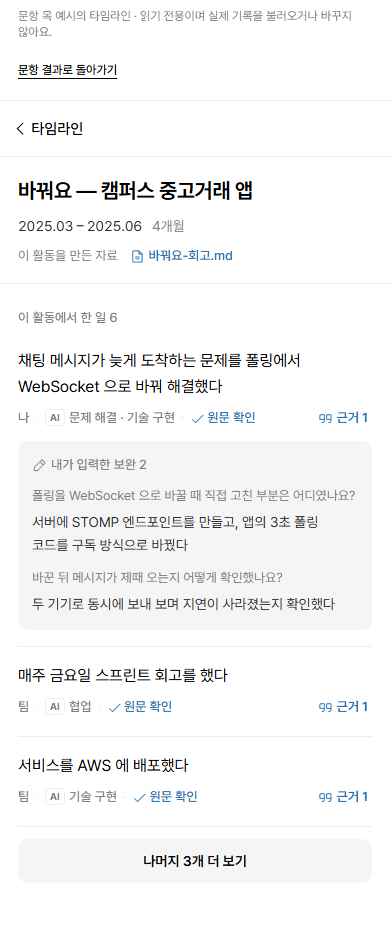
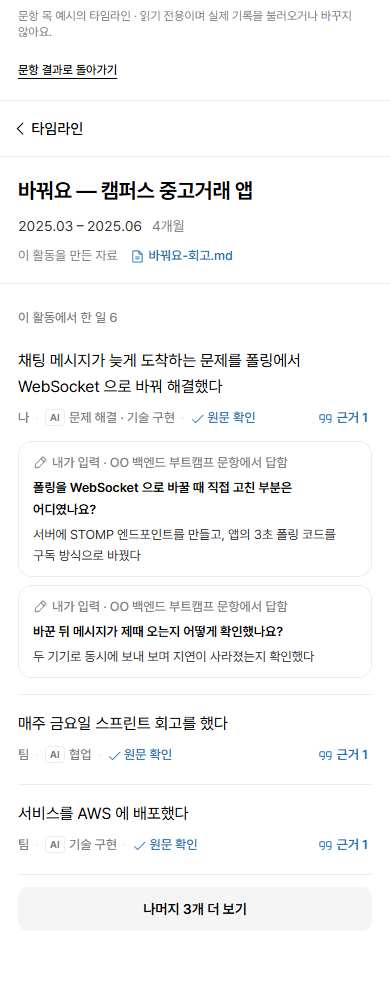
fix(clarification): 되묻기 · 보완을 시안 6 대로 — 바로 보이는 입력칸 · 건너뛰기 · 어디서 답했는지 (#31)
#49 에서 시안 6 의 되묻기를 놓쳤다(시안은 mock.js 로 그려지는데 html 만 찾아봄). 시안대로 맞춘다.

- 묻기 카드(apply.html msg--ask): 활동 칩 + 굵은 질문 + 한 줄 입력칸이 처음부터 보이고 「답하기」 · 「건너뛰기」.
  답하면 내 말풍선 + 「「바꿔요」 경험에 보완으로 쌓았어요. 다른 지원서에서도 이 답을 근거로 같이 써요.」
- 활동 세부(experience.html fill-in): 보완마다 테두리 상자에 「내가 입력 · OO 백엔드 부트캠프 문항에서 답함」 + 질문 + 답.
  출처는 보완의 questionId → 문항 목록의 지원처로 만든다(목 타임라인만 문항 목록을 알아서 Context 로 넣는다)
- 차곡이 패널 자체는 ETC#78 논의 중이라 묻기 카드는 추천 경험 아래에 둔다

Claude-Session: https://claude.ai/code/session_01Wxw7Q7m4nn6AwyPGdGGqE5

diff --git a/src/components/questions/clarifications.tsx b/src/components/questions/clarifications.tsx
@@ -1,76 +1,73 @@
 "use client";
 
-// 되묻기(S-22 · S-23) — 추천된 경험 아래에 그 경험에 대한 질문만. 답은 선택이고, 건너뛰면 아무것도 보내지 않는다
+// 되묻기(S-22 · S-23) — 시안 6 apply.html 차곡이 패널의 묻기 말풍선(msg--ask)을 추천 경험 아래로 옮겼다(패널은 ETC#78 논의 중).
+// 답은 선택이고, 건너뛰면 아무것도 보내지 않는다
 import { useRef, useState } from "react";
-import { UserEnteredLabel } from "@/components/experience/supplement-list";
 import { Button } from "@/components/ui/button";
 import { MAX_ANSWER_LENGTH, type Clarification, type QuestionExperience } from "@/lib/api/question-types";
 
 export type AnswerHandler = (clarificationId: number, answer: string) => Promise<void>;
 
-export function Clarifications({ experience, clarifications, onAnswer, label }: {
-  experience: QuestionExperience; clarifications: Clarification[]; onAnswer?: AnswerHandler; label: string;
+/** 「바꿔요 — 캠퍼스 중고거래 앱」 → 「바꿔요」 (시안의 활동 칩) */
+const shortName = (name: string) => name.split(" — ")[0];
+
+export function Clarifications({ activityName, experience, clarifications, onAnswer, label }: {
+  activityName: string; experience: QuestionExperience; clarifications: Clarification[]; onAnswer?: AnswerHandler; label: string;
 }) {
   if (!clarifications.length) return null;
-  return <section aria-label={label} className="mt-5 grid gap-3 rounded-md bg-surface-soft p-4">
-    <div>
-      <h5 className="m-0 text-sm font-semibold">이 경험에 대해 짧게 물어볼게요</h5>
-      <p className="mt-1 mb-0 text-[13px] text-muted">AI 가 자료에서 찾지 못한 부분이에요. 답하면 이 경험에 「내가 입력」 보완으로 쌓여 다음 문항에서도 쓰여요. 답하지 않고 넘어가도 괜찮아요.</p>
-    </div>
-    <ul className="m-0 grid list-none gap-2 p-0">{clarifications.map(c => <ClarificationItem key={c.id} clarification={c} experience={experience} onAnswer={onAnswer} />)}</ul>
+  return <section aria-label={label} className="mt-5 grid gap-2.5">
+    <p className="m-0 text-[13px] text-muted">자료에 없다고 경험이 없는 건 아니에요. 몇 가지만 물어볼게요.</p>
+    <ul className="m-0 grid list-none gap-2.5 p-0">{clarifications.map(c => <ClarificationItem key={c.id} activity={shortName(activityName)} clarification={c} experience={experience} onAnswer={onAnswer} />)}</ul>
   </section>;
 }
 
-function ClarificationItem({ clarification: c, experience, onAnswer }: { clarification: Clarification; experience: QuestionExperience; onAnswer?: AnswerHandler }) {
-  const [mode, setMode] = useState<"idle" | "open" | "skipped">("idle");
+function ClarificationItem({ activity, clarification: c, experience, onAnswer }: { activity: string; clarification: Clarification; experience: QuestionExperience; onAnswer?: AnswerHandler }) {
+  const [skipped, setSkipped] = useState(false);
   const [text, setText] = useState("");
   const [saving, setSaving] = useState(false);
   const [error, setError] = useState<string | null>(null);
   const pending = useRef(false);
-  const question = <p className="m-0 text-[15px] leading-relaxed font-medium text-ink">{c.question}</p>;
-  const box = "grid gap-2.5 rounded-sm bg-canvas p-3.5";
+  const ask = <div className="grid gap-1.5">
+    <span className="inline-flex justify-self-start rounded-full bg-mark-soft px-2.5 py-px text-xs font-semibold text-evidence">{activity}</span>
+    <p className="m-0 text-sm leading-relaxed font-semibold text-ink">{c.question}</p>
+  </div>;
+  const card = "grid gap-3 rounded-[4px_16px_16px_16px] border border-hairline bg-canvas p-3.5";
 
   if (c.supplementId !== null) {
     const supplement = experience.supplements.find(s => s.id === c.supplementId);
-    return <li className={box}>
-      {question}
-      <div className="grid gap-1 border-l-2 border-hairline pl-3">
-        <UserEnteredLabel>내가 입력 · 이 경험에 쌓였어요</UserEnteredLabel>
-        {supplement ? <p className="m-0 whitespace-pre-wrap text-sm leading-relaxed text-body">{supplement.answer}</p>
-          : <p className="m-0 text-sm text-muted">답한 보완을 지금 불러오지 못했어요.</p>}
-      </div>
+    return <li className="grid gap-2.5">
+      <div className={card}>{ask}</div>
+      {supplement ? <p className="m-0 max-w-[92%] justify-self-end rounded-[16px_4px_16px_16px] bg-primary px-3.5 py-3 text-sm leading-relaxed whitespace-pre-wrap text-on-primary">{supplement.answer}</p>
+        : <p className="m-0 justify-self-end text-sm text-muted">답한 보완을 지금 불러오지 못했어요.</p>}
+      <p className="m-0 max-w-[92%] rounded-[4px_16px_16px_16px] border border-hairline-soft bg-canvas px-3.5 py-3 text-sm leading-relaxed text-body">
+        「{activity}」 경험에 보완으로 쌓았어요. 다른 지원서에서도 이 답을 근거로 같이 써요.
+      </p>
     </li>;
   }
 
-  if (mode === "skipped") return <li className="flex flex-wrap items-center justify-between gap-2 px-1">
-    <span className="line-clamp-1 min-w-0 flex-1 text-[13px] text-muted">넘어간 질문 · {c.question}</span>
-    <Button variant="link" size="sm" className="min-h-11" onClick={() => setMode("idle")}>다시 보기</Button>
+  if (skipped) return <li className="flex flex-wrap items-center justify-between gap-2 px-1">
+    <span className="line-clamp-1 min-w-0 flex-1 text-[13px] text-muted">건너뛴 질문 · {c.question}</span>
+    <Button variant="link" size="sm" className="min-h-11" onClick={() => setSkipped(false)}>다시 보기</Button>
   </li>;
 
   const save = async () => {
     if (pending.current || !onAnswer) return;
-    if (!text.trim()) { setError("답을 적어 주세요. 답하지 않으려면 「넘어가기」를 눌러 주세요."); return; }
+    if (!text.trim()) { setError("답을 적어 주세요. 답하지 않으려면 「건너뛰기」를 눌러 주세요."); return; }
     pending.current = true; setSaving(true); setError(null);
     try { await onAnswer(c.id, text.trim()); }
     catch (e) { setError(e instanceof Error ? e.message : "보완을 저장하지 못했어요. 다시 시도해 주세요."); }
     finally { pending.current = false; setSaving(false); }
   };
 
-  return <li className={box}>
-    {question}
-    {mode === "open" ? <form className="grid gap-2" onSubmit={e => { e.preventDefault(); void save(); }}>
-      <textarea autoFocus rows={3} maxLength={MAX_ANSWER_LENGTH} value={text} disabled={saving} onChange={e => { setText(e.target.value); setError(null); }}
-        aria-label={`답: ${c.question}`} placeholder="기억나는 만큼 짧게 적어 주세요."
-        className="w-full resize-y rounded-sm border border-hairline bg-canvas p-3 text-base leading-relaxed" />
-      <span className="text-right text-xs text-muted tabular-nums">{text.length.toLocaleString("ko-KR")} / 2,000</span>
-      {error && <p role="alert" className="m-0 text-sm text-error">{error}</p>}
-      <div className="flex flex-wrap gap-2">
-        <Button type="submit" size="sm" disabled={saving}>{saving ? "저장하고 있어요…" : "보완으로 저장"}</Button>
-        <Button type="button" variant="ghost" size="sm" disabled={saving} onClick={() => { setMode("idle"); setError(null); }}>닫기</Button>
-      </div>
-    </form> : <div className="flex flex-wrap gap-2">
-      <Button variant="secondary" size="sm" disabled={!onAnswer} onClick={() => setMode("open")}>답하기</Button>
-      <Button variant="ghost" size="sm" onClick={() => setMode("skipped")}>넘어가기</Button>
-    </div>}
+  return <li className={card}>
+    {ask}
+    <form className="flex flex-wrap gap-1.5" onSubmit={e => { e.preventDefault(); void save(); }}>
+      <input type="text" maxLength={MAX_ANSWER_LENGTH} value={text} disabled={saving || !onAnswer} onChange={e => { setText(e.target.value); setError(null); }}
+        aria-label={`답: ${c.question}`} placeholder="짧게 답해 주세요"
+        className="h-9 min-w-0 flex-[1_1_140px] rounded-full bg-surface-soft px-3.5 text-base outline-none focus-visible:shadow-[inset_0_0_0_1px_var(--ink)] sm:text-sm" />
+      <Button type="submit" size="sm" disabled={saving || !onAnswer}>{saving ? "쌓는 중…" : "답하기"}</Button>
+      <Button type="button" variant="ghost" size="sm" disabled={saving} onClick={() => { setSkipped(true); setError(null); }}>건너뛰기</Button>
+    </form>
+    {error && <p role="alert" className="m-0 text-sm text-error">{error}</p>}
   </li>;
 }

diff --git a/tests/question-matching.spec.ts b/tests/question-matching.spec.ts
@@ -46,7 +46,9 @@ test("question 41/42 switch preserves contract judgments, actors and supplementa
   await expect(evidence.getByText("원문 발췌", { exact: true })).toBeVisible();
   await expect(evidence.getByText("내가 입력한 보완", { exact: true })).toBeVisible();
   await expect(evidence).toContainText("서버에 STOMP 엔드포인트를 만들고, 앱의 3초 폴링 코드를 구독 방식으로 바꿨다");
-  await expect(page.getByRole("textbox")).toHaveCount(0);
+  // 결과 화면의 입력칸은 되묻기 답 칸(문항 42 의 63)뿐이다 — 추천 · 근거는 읽기 전용
+  await expect(page.getByRole("textbox")).toHaveCount(1);
+  await expect(page.getByRole("textbox", { name: /^답: / })).toHaveCount(1);
   if (process.env.UPDATE_QUESTION_SCREENSHOTS === "1") {
     await page.screenshot({ path: `docs/fe-30/questions-${info.project.name}.png`, fullPage: true, style: "nextjs-portal { display: none !important; }" });
   }
@@ -255,29 +257,32 @@ test("answering a clarification shows it on the experience as user-entered; skip
   // 문항 42 — 넘어가기는 보관함을 바꾸지 않는다
   const asked42 = recommendation(page, 1).getByRole("region", { name: "추천 경험 1에 대한 질문", exact: true });
   await expect(asked42).toContainText("매주 회고에서 직접 맡은 일이 있었다면 무엇이었나요?");
+  await expect(asked42.getByText("바꿔요", { exact: true })).toBeVisible();
+  await expect(asked42.getByRole("textbox", { name: /^답: / })).toBeVisible();
   const asking = shot("asking", info.project.name);
   if (asking) await recommendation(page, 1).screenshot(asking);
   const before = await stored(page);
-  await asked42.getByRole("button", { name: "넘어가기", exact: true }).click();
-  await expect(asked42).toContainText("넘어간 질문");
+  await asked42.getByRole("button", { name: "건너뛰기", exact: true }).click();
+  await expect(asked42).toContainText("건너뛴 질문");
+  await expect(asked42.getByRole("textbox")).toHaveCount(0);
   expect(await stored(page)).toEqual(before);
   await asked42.getByRole("button", { name: "다시 보기", exact: true }).click();
-  await expect(asked42.getByRole("button", { name: "답하기", exact: true })).toBeVisible();
+  await expect(asked42.getByRole("textbox", { name: /^답: / })).toBeVisible();
   await expect(recommendation(page, 2).getByRole("region", { name: /에 대한 질문$/ })).toHaveCount(0);
 
   // 문항 41 — 61 은 이미 답함(보완 301), 62 에 답한다
   await list(page).getByRole("button", { name: /OO 백엔드 부트캠프/ }).click();
   const asked = recommendation(page, 1).getByRole("region", { name: "추천 경험 1에 대한 질문", exact: true });
-  await expect(asked.getByText("내가 입력 · 이 경험에 쌓였어요", { exact: true })).toHaveCount(1);
+  const stacked = "「바꿔요」 경험에 보완으로 쌓았어요. 다른 지원서에서도 이 답을 근거로 같이 써요.";
+  await expect(asked.getByText(stacked, { exact: true })).toHaveCount(1);
   await expect(asked).toContainText("서버에 STOMP 엔드포인트를 만들고");
   await asked.getByRole("button", { name: "답하기", exact: true }).click();
-  await asked.getByRole("button", { name: "보완으로 저장", exact: true }).click();
   await expect(asked.getByRole("alert")).toContainText("답을 적어 주세요");
   await asked.getByRole("textbox", { name: /^답: / }).fill("두 기기로 동시에 보내 보며 지연이 사라졌는지 확인했다");
   const answering = shot("answering", info.project.name);
   if (answering) await recommendation(page, 1).screenshot(answering);
-  await asked.getByRole("button", { name: "보완으로 저장", exact: true }).click();
-  await expect(asked.getByText("내가 입력 · 이 경험에 쌓였어요", { exact: true })).toHaveCount(2);
+  await asked.getByRole("button", { name: "답하기", exact: true }).click();
+  await expect(asked.getByText(stacked, { exact: true })).toHaveCount(2);
   await expect(asked).toContainText("두 기기로 동시에 보내 보며 지연이 사라졌는지 확인했다");
   await expect(asked.getByRole("textbox")).toHaveCount(0);
   const saved = await stored(page);
@@ -295,7 +300,7 @@ test("answering a clarification shows it on the experience as user-entered; skip
     }
   }
   await page.reload();
-  await expect(recommendation(page, 1).getByText("내가 입력 · 이 경험에 쌓였어요", { exact: true })).toHaveCount(2);
+  await expect(recommendation(page, 1).getByText(stacked, { exact: true })).toHaveCount(2);
 
   // 활동 세부 — 원문 확인 표시는 그대로, 보완은 「내가 입력한 보완」으로 따로
   await recommendation(page, 1).getByRole("link", { name: /타임라인에서 활동 보기/ }).click();
@@ -303,8 +308,9 @@ test("answering a clarification shows it on the experience as user-entered; skip
   const first = activity.locator("li").first();
   await expect(first).toContainText("WebSocket");
   await expect(first.getByText("원문 확인", { exact: true })).toBeVisible();
-  const supplements = first.getByRole("region", { name: "내가 입력한 보완", exact: true });
-  await expect(supplements).toContainText("내가 입력한 보완 2");
+  const supplements = first.getByRole("list", { name: "내가 입력한 보완", exact: true });
+  await expect(supplements.getByRole("listitem")).toHaveCount(2);
+  await expect(supplements.getByText("내가 입력 · OO 백엔드 부트캠프 문항에서 답함", { exact: true })).toHaveCount(2);
   await expect(supplements).toContainText("서버에 STOMP 엔드포인트를 만들고");
   await expect(supplements).toContainText("두 기기로 동시에 보내 보며 지연이 사라졌는지 확인했다");
   const detail = shot("activity", info.project.name);

diff --git a/src/components/questions/question-timeline-screen.tsx b/src/components/questions/question-timeline-screen.tsx
@@ -6,7 +6,8 @@ import { useRouter, useSearchParams } from "next/navigation";
 import { AppHeader } from "@/components/app-header";
 import { ActivityDetailView } from "@/components/experience/activity-detail";
 import { Timeline } from "@/components/experience/timeline";
-import { questionMockActivities } from "@/lib/mock/questions";
+import { mockFetchQuestions, questionMockActivities } from "@/lib/mock/questions";
+import { SupplementSourceContext, supplementSource } from "@/components/experience/supplement-list";
 import type { ActivityDetail } from "@/lib/api/types";
 import { monthNumber, spanOf, yearsOf, type Span } from "@/lib/period";
 import { cn } from "@/lib/utils";
@@ -18,12 +19,12 @@ export function QuestionTimelineScreen() {
   const params = useSearchParams();
   const router = useRouter();
   // 보완(FE#31)은 브라우저 보관함에 있어 마운트한 뒤에 읽는다(서버 렌더엔 localStorage 가 없다)
-  const [loaded, setLoaded] = useState<{ activities: ActivityDetail[] } | { error: string } | null>(null);
+  const [loaded, setLoaded] = useState<{ activities: ActivityDetail[]; sourceOf: ReturnType<typeof supplementSource> } | { error: string } | null>(null);
   useEffect(() => {
     let alive = true;
     queueMicrotask(() => {
       if (!alive) return;
-      try { setLoaded({ activities: questionMockActivities() }); }
+      try { setLoaded({ activities: questionMockActivities(), sourceOf: supplementSource(new Map(mockFetchQuestions().map(q => [q.id, q.organization]))) }); }
       catch (e) { setLoaded({ error: e instanceof Error ? e.message : "보관한 예시를 읽지 못했어요." }); }
     });
     return () => { alive = false; };
@@ -57,9 +58,11 @@ export function QuestionTimelineScreen() {
           onSelect={navigate} dragging={null} onDropExperience={ignore} onPeriodChange={ignore} readOnly />}
       </main>
       {selected && <aside aria-label="활동 세부" className="min-h-dvh min-w-0 bg-canvas lg:min-h-0 lg:overflow-auto lg:border-l lg:border-hairline">
-        <ActivityDetailView key={selected.id} summary={{ ...selected, experienceCount: selected.experiences.length }} state={{ status: "ready", activity: selected }} now={now}
-          readOnly onClose={() => navigate()} onRetry={ignore} onActivitySaved={ignore} onExperienceSaved={ignore}
-          onExperienceAdded={ignore} onExperienceDelete={ignore} onExperienceMove={ignore} onDragChange={ignore} draggingId={null} />
+        <SupplementSourceContext value={loaded && "sourceOf" in loaded ? loaded.sourceOf : () => null}>
+          <ActivityDetailView key={selected.id} summary={{ ...selected, experienceCount: selected.experiences.length }} state={{ status: "ready", activity: selected }} now={now}
+            readOnly onClose={() => navigate()} onRetry={ignore} onActivitySaved={ignore} onExperienceSaved={ignore}
+            onExperienceAdded={ignore} onExperienceDelete={ignore} onExperienceMove={ignore} onDragChange={ignore} draggingId={null} />
+        </SupplementSourceContext>
       </aside>}
     </div>
   </div>;

diff --git a/src/components/experience/supplement-list.tsx b/src/components/experience/supplement-list.tsx
@@ -1,5 +1,8 @@
-// 보완 — 되묻기에 사용자가 한 답(S-23). 늘 「내가 입력」이고, 원문 발췌(근거)와 섞이지 않게 따로 보인다
-import type { ReactNode } from "react";
+"use client";
+
+// 보완 — 되묻기에 사용자가 한 답(S-23). 늘 「내가 입력」이고, 원문 발췌(근거)와 섞이지 않게 따로 보인다.
+// 모양은 시안 6 experience.html 의 fill-in — 「✎ 내가 입력 · ○○ 문항에서 답함」 + 질문(굵게) + 답
+import { createContext, useContext, type ReactNode } from "react";
 import { PencilSimpleIcon } from "@phosphor-icons/react";
 import type { Supplement } from "@/lib/api/types";
 
@@ -9,14 +12,26 @@ export function UserEnteredLabel({ children = "내가 입력" }: { children?: Re
   </span>;
 }
 
+/** 보완이 어디서 나왔나 — 「OO 부트캠프 문항에서 답함」. 문항 목록을 아는 화면이 넣어 준다. 없으면 「되묻기에 답함」 */
+export const SupplementSourceContext = createContext<(supplement: Supplement) => string | null>(() => null);
+
+/** 문항 ID → 지원처 이름(없으면 null) 으로 출처 문구를 만든다 */
+export function supplementSource(organizationOf: Map<number, string | null>) {
+  return (s: Supplement) => {
+    if (s.questionId === null || !organizationOf.has(s.questionId)) return null;
+    const organization = organizationOf.get(s.questionId);
+    return organization ? `${organization} 문항에서 답함` : "지원 문항에서 답함";
+  };
+}
+
 /** 경험 아래 — 질문 · 답 한 쌍씩. 경험 본문 · 출처 상태는 그대로 두고 덧붙여 보인다 */
 export function SupplementList({ supplements }: { supplements: Supplement[] }) {
+  const sourceOf = useContext(SupplementSourceContext);
   if (!supplements.length) return null;
-  return <section aria-label="내가 입력한 보완" className="mt-1 grid gap-2.5 rounded-sm bg-surface-soft p-3.5">
-    <UserEnteredLabel>내가 입력한 보완 {supplements.length}</UserEnteredLabel>
-    <ul className="m-0 grid list-none gap-3 p-0">{supplements.map(s => <li key={s.id} className="grid gap-1">
-      <span className="text-[13px] text-muted">{s.question}</span>
-      <span className="whitespace-pre-wrap text-sm leading-relaxed text-body">{s.answer}</span>
-    </li>)}</ul>
-  </section>;
+  return <ul aria-label="내가 입력한 보완" className="m-0 mt-1 grid list-none gap-2 p-0">{supplements.map(s => <li key={s.id}
+    className="grid gap-1 rounded-[14px] border border-hairline px-3.5 py-2.5 text-[13px] leading-relaxed">
+    <UserEnteredLabel>내가 입력 · {sourceOf(s) ?? "되묻기에 답함"}</UserEnteredLabel>
+    <b className="font-semibold text-ink">{s.question}</b>
+    <span className="whitespace-pre-wrap text-body">{s.answer}</span>
+  </li>)}</ul>;
 }

diff --git a/src/components/questions/question-result.tsx b/src/components/questions/question-result.tsx
@@ -75,7 +75,7 @@ export function QuestionResult({ question, elsewhere, onAnswer }: { question: Qu
           <h5 className="m-0 text-sm font-semibold">추천을 뒷받침하는 기록</h5>
           <RecommendationEvidence recommendation={r} />
         </section>
-        <Clarifications label={`추천 경험 ${i + 1}에 대한 질문`} experience={r.experience} clarifications={question.clarifications.filter(c => c.experienceId === r.experience.id)} onAnswer={onAnswer} />
+        <Clarifications label={`추천 경험 ${i + 1}에 대한 질문`} activityName={r.activity.name} experience={r.experience} clarifications={question.clarifications.filter(c => c.experienceId === r.experience.id)} onAnswer={onAnswer} />
         <Button asChild variant="link" className="mt-3 text-sm"><Link href={`/?questionMock=1&activity=${r.activity.id}&fromQuestion=${question.id}`}>타임라인에서 활동 보기 →</Link></Button>
       </li>)}</ol>}
     </section>
